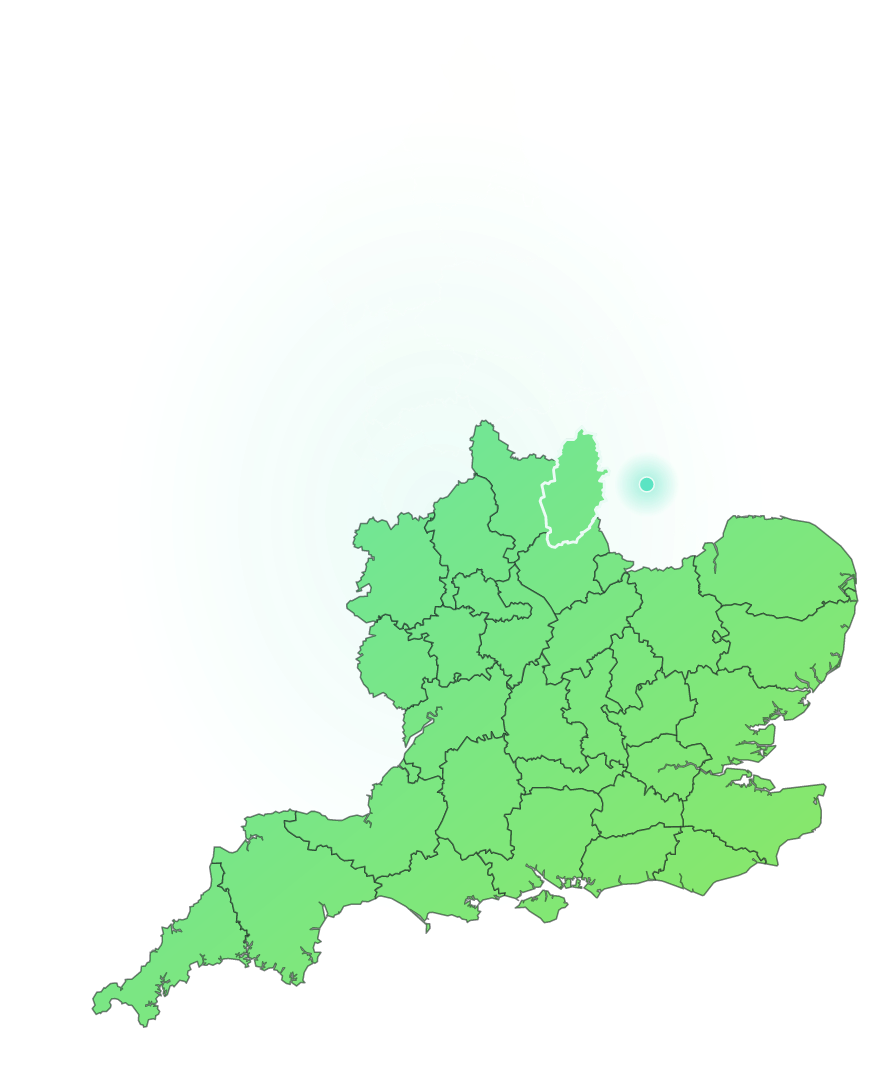
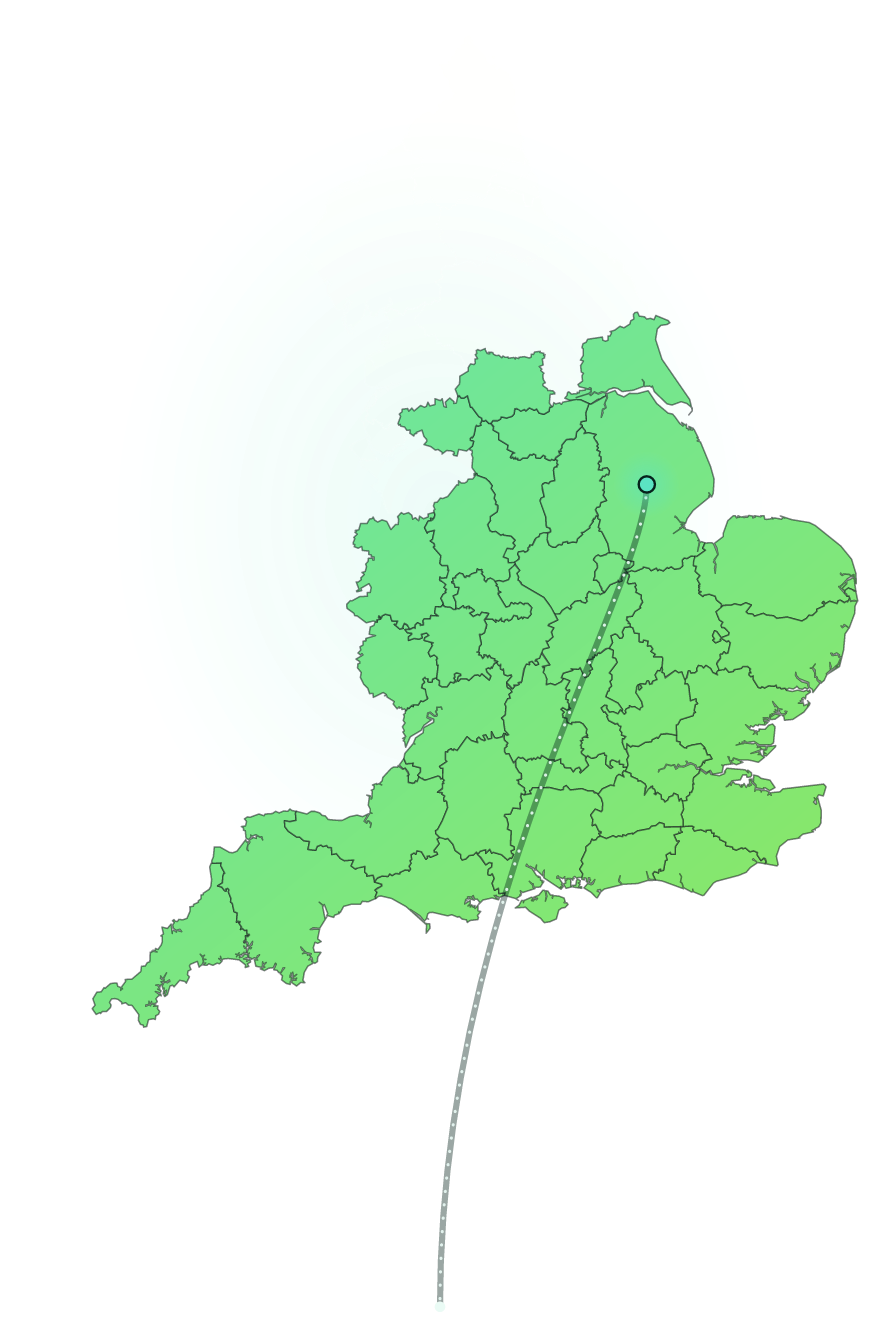
Expand coverage to 39 counties; make Woodhall Spa an annotated highlight
- progressConfig: completedCounties now 39 (adds East Riding of Yorkshire,
  Greater Manchester, Lincolnshire, South/West Yorkshire); latestCounty set to
  Lincolnshire. Drives both the site /progress map and the email.
- Map build: the spotlight pin now trails a dotted leader line that curves down
  to the canvas's bottom-centre (extra bottom band added), where the email's
  HTML callout continues it. Pin gains a dark ring so it stays legible on a
  filled mint county; the "just added" beacon is skipped when it coincides with
  the pin, to avoid double-marking.
- siteConfig.progress.spotlight gains a `blurb`; update.tsx renders the standout
  as a centred callout (name / county · note / blurb) beneath the leader.
- Refreshed the two highlights (the north opening up; hand-checked database),
  dropping now-stale hardcoded counts.

Regenerated atlas-current.png (39 counties, Woodhall Spa pin + leader).

Claude-Session: https://claude.ai/code/session_011c8BDkbpDYh5arE365nVvF

Changed region(s): [[0.092, 0.2143, 0.9818, 0.9796]]

diff --git a/scripts/build-progress-map.ts b/scripts/build-progress-map.ts
@@ -53,18 +53,29 @@ const donePaths = COUNTY_SHAPES.filter((s) => doneSet.has(s.name))
   )
   .join("");
 
-// The most-recent county gets a soft light outline (the email's static stand-in
-// for the website's pulsing "just added" beacon).
-const latestShape = COUNTY_SHAPES.find((s) => s.name === latest && doneSet.has(s.name));
-const latestOutline = latestShape
-  ? `<path d="${latestShape.d}" fill="none" stroke="#EAFBF5" stroke-width="1.3" stroke-linejoin="round" fill-rule="evenodd"/>`
-  : "";
+const { w, h } = COUNTY_VIEW;
+// Extra canvas below the map for the spotlight's leader line to land in, where
+// the email's HTML callout continues it. Kept transparent (the card shows).
+const BAND = 110;
+const H = h + BAND;
 
-// Optional standout-course pin — a glowing mint marker at the county's
-// centroid (a "played course" pin, §11 — distinct from the county fill, which
-// is reserved for 100% complete). Named in the email caption, not on the map.
 const spot = siteConfig.progress.spotlight;
-let spotlightPin = "";
+
+// The most-recent county gets a soft light outline (the email's static stand-in
+// for the website's pulsing "just added" beacon). Skipped when it's also the
+// pinned county — the pin already marks it, and both together read as clutter.
+const drawBeacon = !(spot.enabled && spot.county === latest);
+const latestShape = COUNTY_SHAPES.find((s) => s.name === latest && doneSet.has(s.name));
+const latestOutline =
+  latestShape && drawBeacon
+    ? `<path d="${latestShape.d}" fill="none" stroke="#EAFBF5" stroke-width="1.3" stroke-linejoin="round" fill-rule="evenodd"/>`
+    : "";
+
+// Optional standout-course spotlight: a played-course pin (§11 — a marker, not
+// a county fill) with a dotted leader line curving down to the bottom-centre of
+// the canvas, where the email's HTML callout picks it up. The pin carries a dark
+// ring so it stays legible whether or not its county is filled mint.
+let spotlight = "";
 if (spot.enabled) {
   const spotShape = COUNTY_SHAPES.find((s) => s.name === spot.county);
   if (!spotShape) {
@@ -72,13 +83,22 @@ if (spot.enabled) {
       `progress.spotlight.county "${spot.county}" is not a county in counties.ts — names must match exactly.`
     );
   }
-  spotlightPin =
-    `<circle cx="${spotShape.cx}" cy="${spotShape.cy}" r="15" fill="url(#pinGlow)"/>` +
-    `<circle cx="${spotShape.cx}" cy="${spotShape.cy}" r="3.4" fill="#5BE4C3" stroke="#EAFBF5" stroke-width="0.7"/>`;
+  const px = spotShape.cx;
+  const py = spotShape.cy;
+  const lx = w / 2; // leader ends at bottom-centre so the centred caption aligns
+  const ly = H - 6;
+  const leader = `M ${px} ${py} C ${px} ${py + 48}, ${lx} ${(py + ly) / 2}, ${lx} ${ly}`;
+  spotlight =
+    // dark casing under a light dotted leader, so it reads over mint or dark
+    `<path d="${leader}" fill="none" stroke="#06231C" stroke-width="2.8" stroke-linecap="round" opacity="0.4"/>` +
+    `<path d="${leader}" fill="none" stroke="#EAFBF5" stroke-width="1.4" stroke-linecap="round" stroke-dasharray="0.1 6" opacity="0.9"/>` +
+    `<circle cx="${lx}" cy="${ly}" r="2.4" fill="#EAFBF5"/>` +
+    // the pin itself, on top: mint dot + soft glow + dark ring
+    `<circle cx="${px}" cy="${py}" r="15" fill="url(#pinGlow)"/>` +
+    `<circle cx="${px}" cy="${py}" r="3.7" fill="#5BE4C3" stroke="#06231C" stroke-width="1.1"/>`;
 }
 
-const { w, h } = COUNTY_VIEW;
-const svg = `<svg xmlns="http://www.w3.org/2000/svg" viewBox="0 0 ${w} ${h}" width="${w}" height="${h}">
+const svg = `<svg xmlns="http://www.w3.org/2000/svg" viewBox="0 0 ${w} ${H}" width="${w}" height="${H}">
   <defs>
     <linearGradient id="mint" gradientUnits="userSpaceOnUse" x1="0" y1="0" x2="${w}" y2="${h}">
       <stop offset="0%" stop-color="#5BE4C3"/>
@@ -97,7 +117,7 @@ const svg = `<svg xmlns="http://www.w3.org/2000/svg" viewBox="0 0 ${w} ${h}" wid
   <g>${basePaths}</g>
   <g>${donePaths}</g>
   ${latestOutline}
-  ${spotlightPin}
+  ${spotlight}
 </svg>`;
 
 const resvg = new Resvg(svg, {

diff --git a/src/emails/update.tsx b/src/emails/update.tsx
@@ -82,24 +82,37 @@ export default function UpdateEmail() {
             width={440}
             style={{ width: "100%", maxWidth: 440, height: "auto", margin: "0 auto" }}
           />
-          {/* Caption for the standout-course pin baked into the map above. */}
+          {/* Standout-course callout — continues the leader line baked into the
+              map above (it lands at bottom-centre, so this stays centred). */}
           {progress.spotlight.enabled && (
-            <Text
-              style={{
-                margin: "10px auto 0",
-                maxWidth: 400,
-                fontSize: 12.5,
-                lineHeight: "18px",
-                color: brand.ink2,
-                textAlign: "center",
-              }}
-            >
-              The pin in {progress.spotlight.county} is{" "}
-              <span style={{ color: brand.ink, fontWeight: 600 }}>
+            <>
+              <Text
+                style={{
+                  margin: "2px 0 0",
+                  fontFamily: brand.display,
+                  fontSize: 16,
+                  fontWeight: 600,
+                  letterSpacing: "-0.2px",
+                  color: brand.ink,
+                }}
+              >
                 {progress.spotlight.name}
-              </span>{" "}
-              &mdash; {progress.spotlight.note}.
-            </Text>
+              </Text>
+              <Text style={{ margin: "2px 0 0", fontSize: 12, lineHeight: "17px", color: brand.ink2 }}>
+                {progress.spotlight.county} &middot; {progress.spotlight.note}
+              </Text>
+              <Text
+                style={{
+                  margin: "7px auto 0",
+                  maxWidth: 340,
+                  fontSize: 13,
+                  lineHeight: "19px",
+                  color: brand.ink2,
+                }}
+              >
+                {progress.spotlight.blurb}
+              </Text>
+            </>
           )}
         </Section>
       )}

diff --git a/src/lib/siteConfig.ts b/src/lib/siteConfig.ts
@@ -150,10 +150,12 @@ export type SiteConfig = {
       enabled: boolean;
       /** County the pin sits in (must match counties.ts). */
       county: string;
-      /** Course name shown in the caption, e.g. "Woodhall Spa". */
+      /** Course name shown in the callout, e.g. "Woodhall Spa". */
       name: string;
-      /** Short editorial note, e.g. "home of England Golf". */
+      /** Short epithet under the name, e.g. "home of England Golf". */
       note: string;
+      /** A sentence or two on why it's the standout, shown in the callout. */
+      blurb: string;
     };
     /** What's new this update — a short titled bullet each. */
     highlights: ReadonlyArray<{ title: string; body: string }>;
@@ -360,15 +362,16 @@ export const siteConfig: SiteConfig = {
       county: "Lincolnshire",
       name: "Woodhall Spa",
       note: "home of England Golf",
+      blurb: "The Hotchkin is one of the country's great heathland courses — and the standout as we open up Lincolnshire.",
     },
     highlights: [
       {
-        title: "The Midlands are nearly joined up",
-        body: "Nottinghamshire went in this month, so that's thirty-four counties down and the belt across the middle of England almost solid mint.",
+        title: "The North opens up",
+        body: "Three slices of Yorkshire, Greater Manchester and Lincolnshire have joined the map — the collection's reached well beyond the Midlands now.",
       },
       {
         title: "Every course, checked by hand",
-        body: "No scraped lists or guesswork — each of the 1,181 courses on the map has been verified one by one. It's slow, and that's the point.",
+        body: "No scraped lists or guesswork — each one is verified by hand before it goes on the map. It's slow, and that's the point.",
       },
     ],
     showRoadmap: true,

diff --git a/src/lib/progressConfig.ts b/src/lib/progressConfig.ts
@@ -33,16 +33,19 @@ export const progressConfig = {
     "Derbyshire",
     "Devon",
     "Dorset",
+    "East Riding of Yorkshire",
     "East Sussex",
     "Essex",
     "Gloucestershire",
     "Greater London",
+    "Greater Manchester",
     "Hampshire",
     "Herefordshire",
     "Hertfordshire",
     "Isle of Wight",
     "Kent",
     "Leicestershire",
+    "Lincolnshire",
     "Norfolk",
     "Northamptonshire",
     "Nottinghamshire",
@@ -50,19 +53,21 @@ export const progressConfig = {
     "Rutland",
     "Shropshire",
     "Somerset",
+    "South Yorkshire",
     "Staffordshire",
     "Suffolk",
     "Surrey",
     "Warwickshire",
     "West Midlands",
     "West Sussex",
+    "West Yorkshire",
     "Wiltshire",
     "Worcestershire",
   ],
 
   /** The most recently mapped county — gets the "Just added" beacon on the
    *  atlas and the ledger line. Must be one of completedCounties above. */
-  latestCounty: "Nottinghamshire",
+  latestCounty: "Lincolnshire",
 
   lastUpdated: "25 June 2026",
 